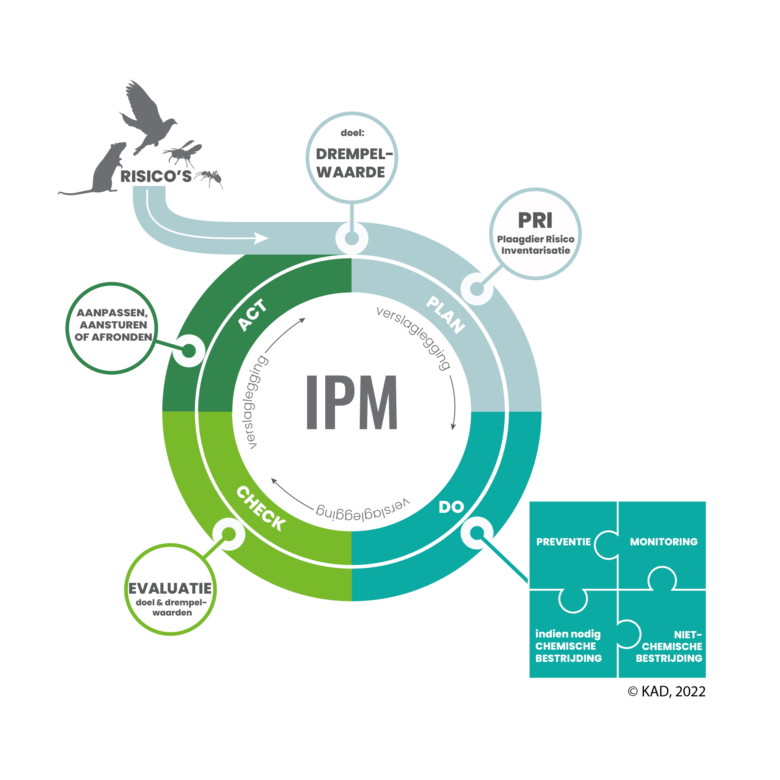
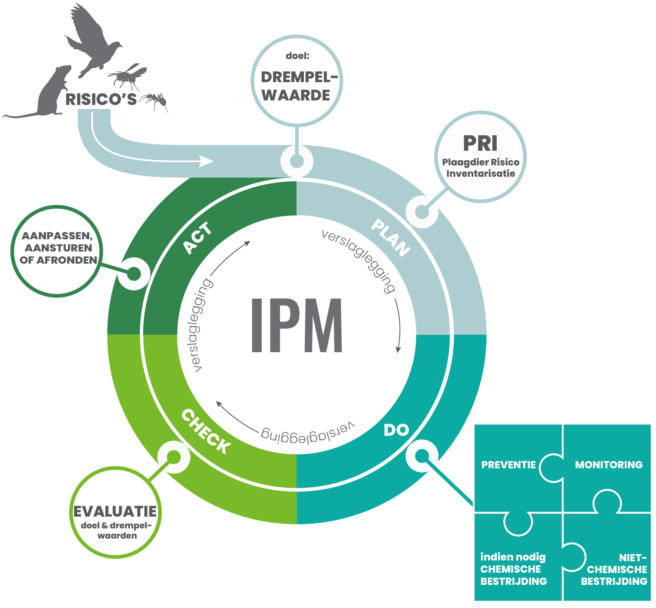
fixed image

Changed region(s): [[0.0, 0.0, 1.0, 1.0], [0.3659, 0.4688, 0.5183, 0.5938], [0.7622, 0.1875, 0.7927, 0.2188]]

diff --git a/index.html b/index.html
@@ -166,7 +166,9 @@
               <p>Beoordelen of de bestrijding het gewenste resultaat heeft opgeleverd</p>
             </div>
           </div>
-          <div class="image col-lg-6 order-1 order-lg-2" style='background-image: url("assets/img/ipm.png");' data-aos="fade-left" data-aos-delay="100"></div>
+          <div class="image col-lg-6 order-1 order-lg-2" data-aos="fade-left" data-aos-delay="100">
+            <img src="assets/img/ipm.png" class="img-fluid" alt="">
+          </div>
         </div>
 
       </div>

diff --git a/assets/css/style.css b/assets/css/style.css
@@ -515,10 +515,7 @@ section {
 }
 
 .services .image {
-  background-position: center center;
-  background-repeat: no-repeat;
   
-  min-height: 700px;
 }
 
 /*--------------------------------------------------------------
